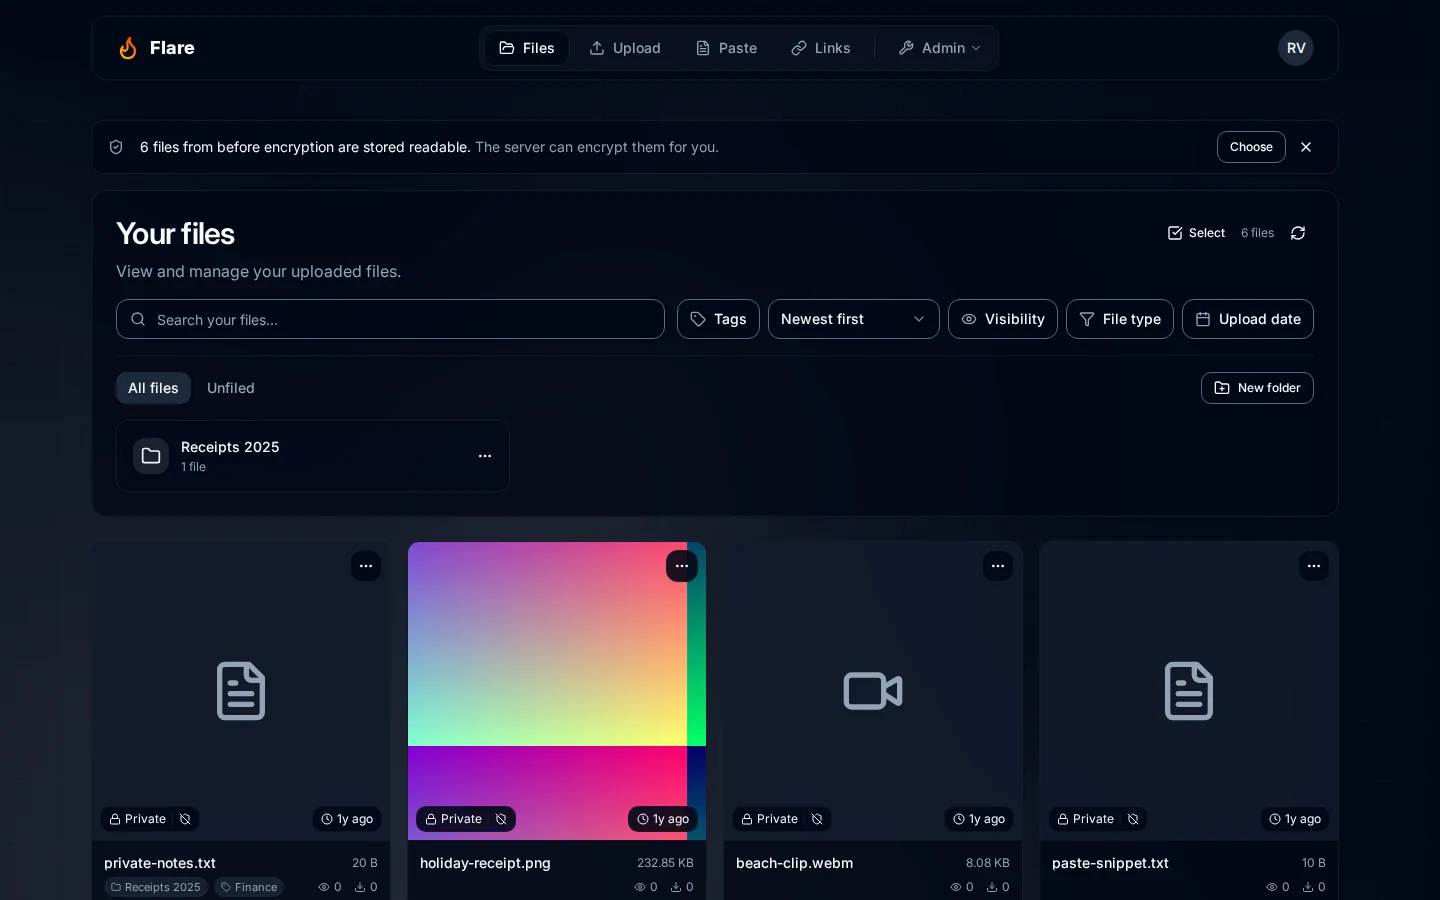
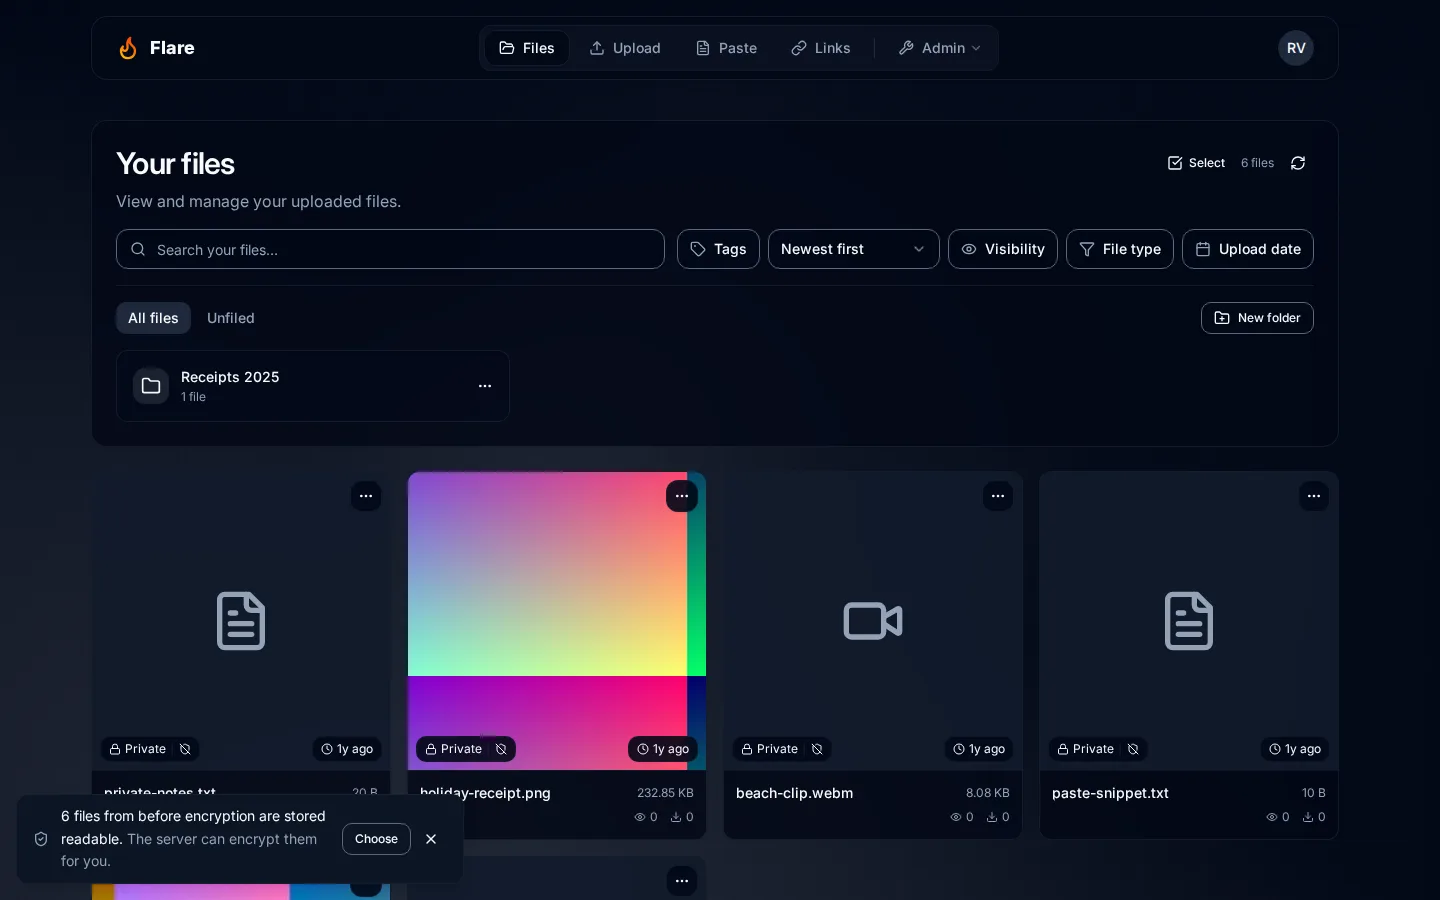
fix(e2ee): keep the question about existing files from moving the library
The question was a line above the library. Its answer from the server
arrives after the library is drawn, so the line pushed the whole page
down at that moment: the grid drew its cards again, an open menu or a
selection could be lost, and two browser suites failed on the merged
tree. The question is now a small card at the lower edge of the page,
above the statuses of background work, and moves nothing.

The guide says where the card is and that it counts every plain file,
also one that was uploaded as plain on purpose. The handbook image is
captured again.

diff --git a/components/encryption/existing-files.tsx b/components/encryption/existing-files.tsx
@@ -523,6 +523,10 @@ export function ExistingFiles() {
   const active = activeJobs(status)
   const total = active + status.jobs.encrypted + status.jobs.failed
   const asking = shouldAsk(status) && !later
+  // The statuses that share the edge of the page with the question.
+  const statusesBelow =
+    (maintenance.progress ? 1 : 0) +
+    (active > 0 || status.jobs.failed > 0 ? 1 : 0)
   const dismiss = () => {
     setLater(true)
     try {
@@ -535,43 +539,58 @@ export function ExistingFiles() {
   return (
     <>
       {asking && (
+        // The question floats at the edge of the page, above the statuses
+        // of background work. Its answer from the server arrives after the
+        // library is drawn, and a line in the page would push the library
+        // down at that moment.
         <div
-          role="status"
-          data-existing-files-prompt=""
-          className="mb-4 flex flex-wrap items-start gap-x-3 gap-y-2 rounded-xl border border-border/60 bg-card/80 px-4 py-2.5 text-sm shadow-sm backdrop-blur-xl sm:items-center sm:gap-x-4"
+          className={cn(
+            'pointer-events-none fixed inset-x-0 z-40 flex justify-center px-4 sm:inset-x-auto sm:left-4 sm:justify-start sm:px-0',
+            statusesBelow === 2
+              ? 'bottom-24'
+              : statusesBelow === 1
+                ? 'bottom-14'
+                : 'bottom-4'
+          )}
         >
-          <ShieldCheck
-            className="mt-1 h-4 w-4 shrink-0 text-muted-foreground sm:mt-0"
-            aria-hidden="true"
-          />
-          <p className="min-w-0 flex-1 basis-56 leading-relaxed">
-            {files(status.plain.total)} from before encryption{' '}
-            {status.plain.total === 1 ? 'is' : 'are'} stored readable.{' '}
-            <span className="text-muted-foreground">
-              The server can encrypt {status.plain.total === 1 ? 'it' : 'them'}{' '}
-              for you.
-            </span>
-          </p>
-          <div className="flex items-center gap-1">
-            <Button
-              type="button"
-              size="sm"
-              variant="outline"
-              onClick={openExistingFilesChoice}
-            >
-              Choose
-            </Button>
-            <Button
-              type="button"
-              size="icon"
-              variant="ghost"
-              className="h-8 w-8"
-              aria-label="Decide later"
-              title="Decide later"
-              onClick={dismiss}
-            >
-              <X className="h-4 w-4" />
-            </Button>
+          <div
+            role="status"
+            data-existing-files-prompt=""
+            className="pointer-events-auto flex max-w-md flex-wrap items-start gap-x-3 gap-y-2 rounded-xl border border-border/60 bg-overlay px-4 py-2.5 text-sm shadow-lg sm:items-center"
+          >
+            <ShieldCheck
+              className="mt-1 h-4 w-4 shrink-0 text-muted-foreground sm:mt-0"
+              aria-hidden="true"
+            />
+            <p className="min-w-0 flex-1 basis-56 leading-relaxed">
+              {files(status.plain.total)} from before encryption{' '}
+              {status.plain.total === 1 ? 'is' : 'are'} stored readable.{' '}
+              <span className="text-muted-foreground">
+                The server can encrypt{' '}
+                {status.plain.total === 1 ? 'it' : 'them'} for you.
+              </span>
+            </p>
+            <div className="flex items-center gap-1">
+              <Button
+                type="button"
+                size="sm"
+                variant="outline"
+                onClick={openExistingFilesChoice}
+              >
+                Choose
+              </Button>
+              <Button
+                type="button"
+                size="icon"
+                variant="ghost"
+                className="h-8 w-8"
+                aria-label="Decide later"
+                title="Decide later"
+                onClick={dismiss}
+              >
+                <X className="h-4 w-4" />
+              </Button>
+            </div>
           </div>
         </div>
       )}

diff --git a/docs/site/guide/encryption.md b/docs/site/guide/encryption.md
@@ -172,9 +172,9 @@ This protects your files from now on. It does not undo the past: the server stor
 
 ### Choose which files to encrypt
 
-After you have set up your keys, a line above your library says how many files are stored readable. Choose **Choose** to open the question, or close the line to decide later. It comes back the next time you open Flare until you answer, and it never appears if you have no plain files.
+After you have set up your keys, a small card at the lower edge of the page says how many files are stored readable. Choose **Choose** to open the question, or close the card to decide later. It comes back the next time you open Flare until you answer, and it never appears if you have no plain files. The card counts every plain file you have, also one that you uploaded as plain on purpose after the upgrade.
 
-<Screenshot src="/screenshots/encryption/existing-files-prompt.webp" alt="File library with a line above it that reads 6 files from before encryption are stored readable, The server can encrypt them for you, with a Choose button and a close button" caption="The question appears above your library one time. Closing it puts it off until you next open Flare." />
+<Screenshot src="/screenshots/encryption/existing-files-prompt.webp" alt="File library with a small card at its lower left edge that reads 6 files from before encryption are stored readable, The server can encrypt them for you, with a Choose button and a close button" caption="The question appears at the edge of the page one time. Closing it puts it off until you next open Flare." />
 
 1. Read the table. It counts your private files, your public files and your files with a password, and says what encryption changes for each.
 2. Pick **Private files** (the suggestion), **All files** or **None**.
